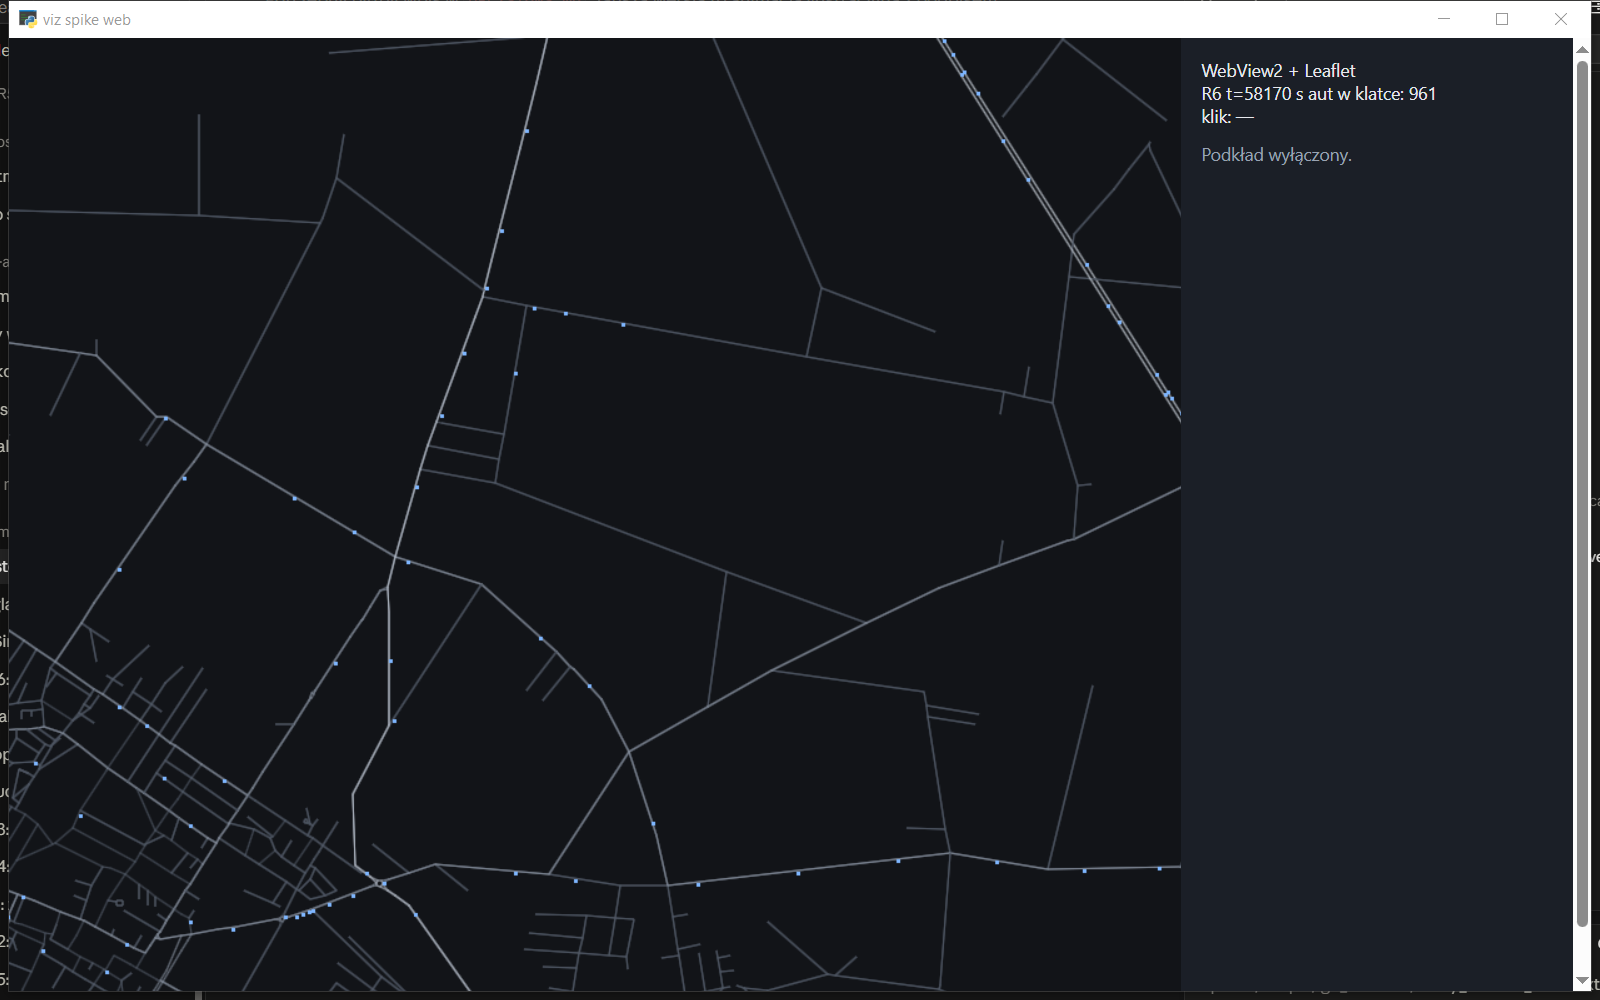
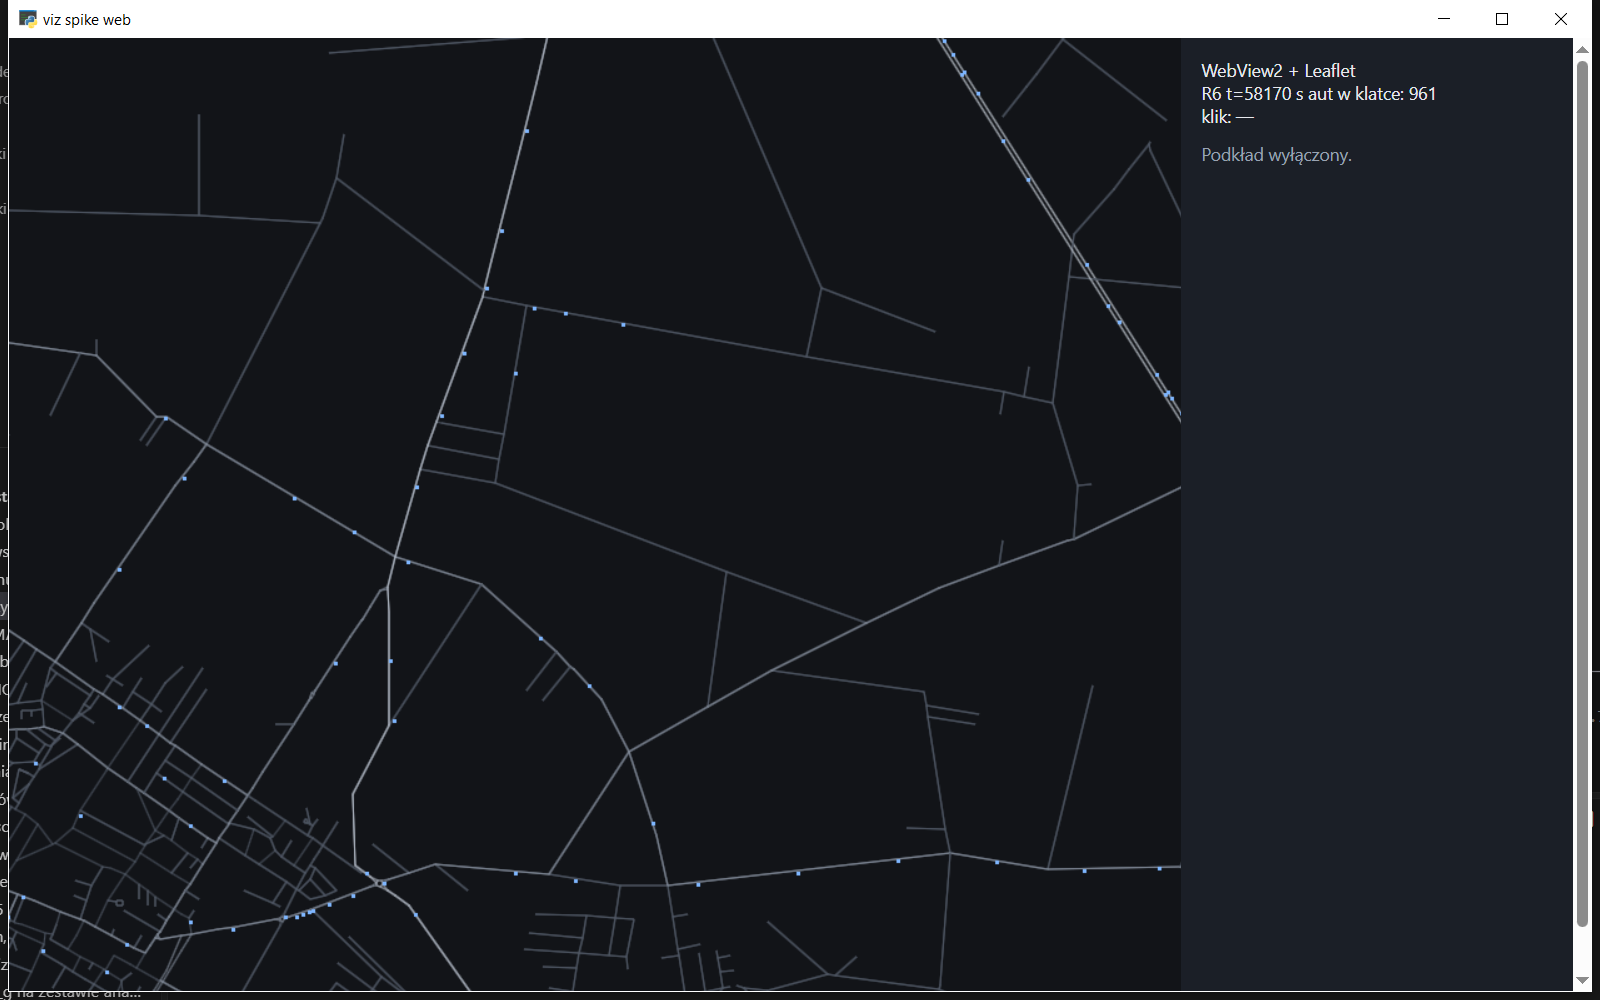
wizualizer: powtórka spike'u, zostaje WebView2
Drugi pomiar na tej samej klatce R6. PySide6 29,70 Hz, 0,24 ms, 165 MB. WebView2 29,58 Hz, 0,65 ms, 503 MB. Progi bez zmian, wybór bez zmian. Okno v1 nie jest zaczęte.

diff --git a/docs/research/wizualizer_plan.md b/docs/research/wizualizer_plan.md
@@ -301,7 +301,14 @@ Hz to tempo 30 Hz przez 2 s (ukończone klatki podzielone przez czas), nie pętl
 | PySide6 | 29,56 | 0,24 | 165 |
 | WebView2 + Leaflet | 29,22 | 0,92 | 503 |
 
-WebView2 dostał jedną tablicę JSON (961 punktów) na klatkę, jednym `evaluate_js`. Progi z tego pliku (poniżej 15 Hz, powyżej 1 GB, klik powyżej 50 ms) nie zostały przekroczone. PySide6 też je mieści. Zostaje WebView2 + Leaflet: plan już tam stał, a waga klatki się utrzymała. Ciemnego podkładu z atrybucją nie pokazał żaden wariant, bo nie ma klucza. Okno v1 nie jest zaczęte. `PySide6` i `pywebview` nie weszły do `pyproject.toml`.
+Powtórka tego samego dnia, bo przy pierwszym pomiarze w RAM siedziały inne programy. Przed powtórką, przez 2 s, maszyna (12 rdzeni logicznych) zużyła 5,8 s CPU z 24 dostępnych, głównie `dllhost` i VS Code. Spike'i poszły jeden po drugim, żaden nie został w tle. Wynik powtórki:
+
+| wariant | Hz | klik, ms | RAM, MB |
+|---|---:|---:|---:|
+| PySide6 | 29,70 | 0,24 | 165 |
+| WebView2 + Leaflet | 29,58 | 0,65 | 503 |
+
+WebView2 dostał jedną tablicę JSON (961 punktów) na klatkę, jednym `evaluate_js`. Progi z tego pliku (poniżej 15 Hz, powyżej 1 GB, klik powyżej 50 ms) nie zostały przekroczone ani razu. PySide6 też je mieści. Do dalszej implementacji zostaje WebView2 + Leaflet: plan już tam stał, powtórka dała te same rzędy liczb, waga klatki się utrzymała. Ciemnego podkładu z atrybucją nie pokazał żaden wariant, bo nie ma klucza. Okno v1 nie jest zaczęte. `PySide6` i `pywebview` nie weszły do `pyproject.toml`.
 
 Zrzut WebView2 (HiDPI, widoczna część kadru, podkład wyłączony):
 
